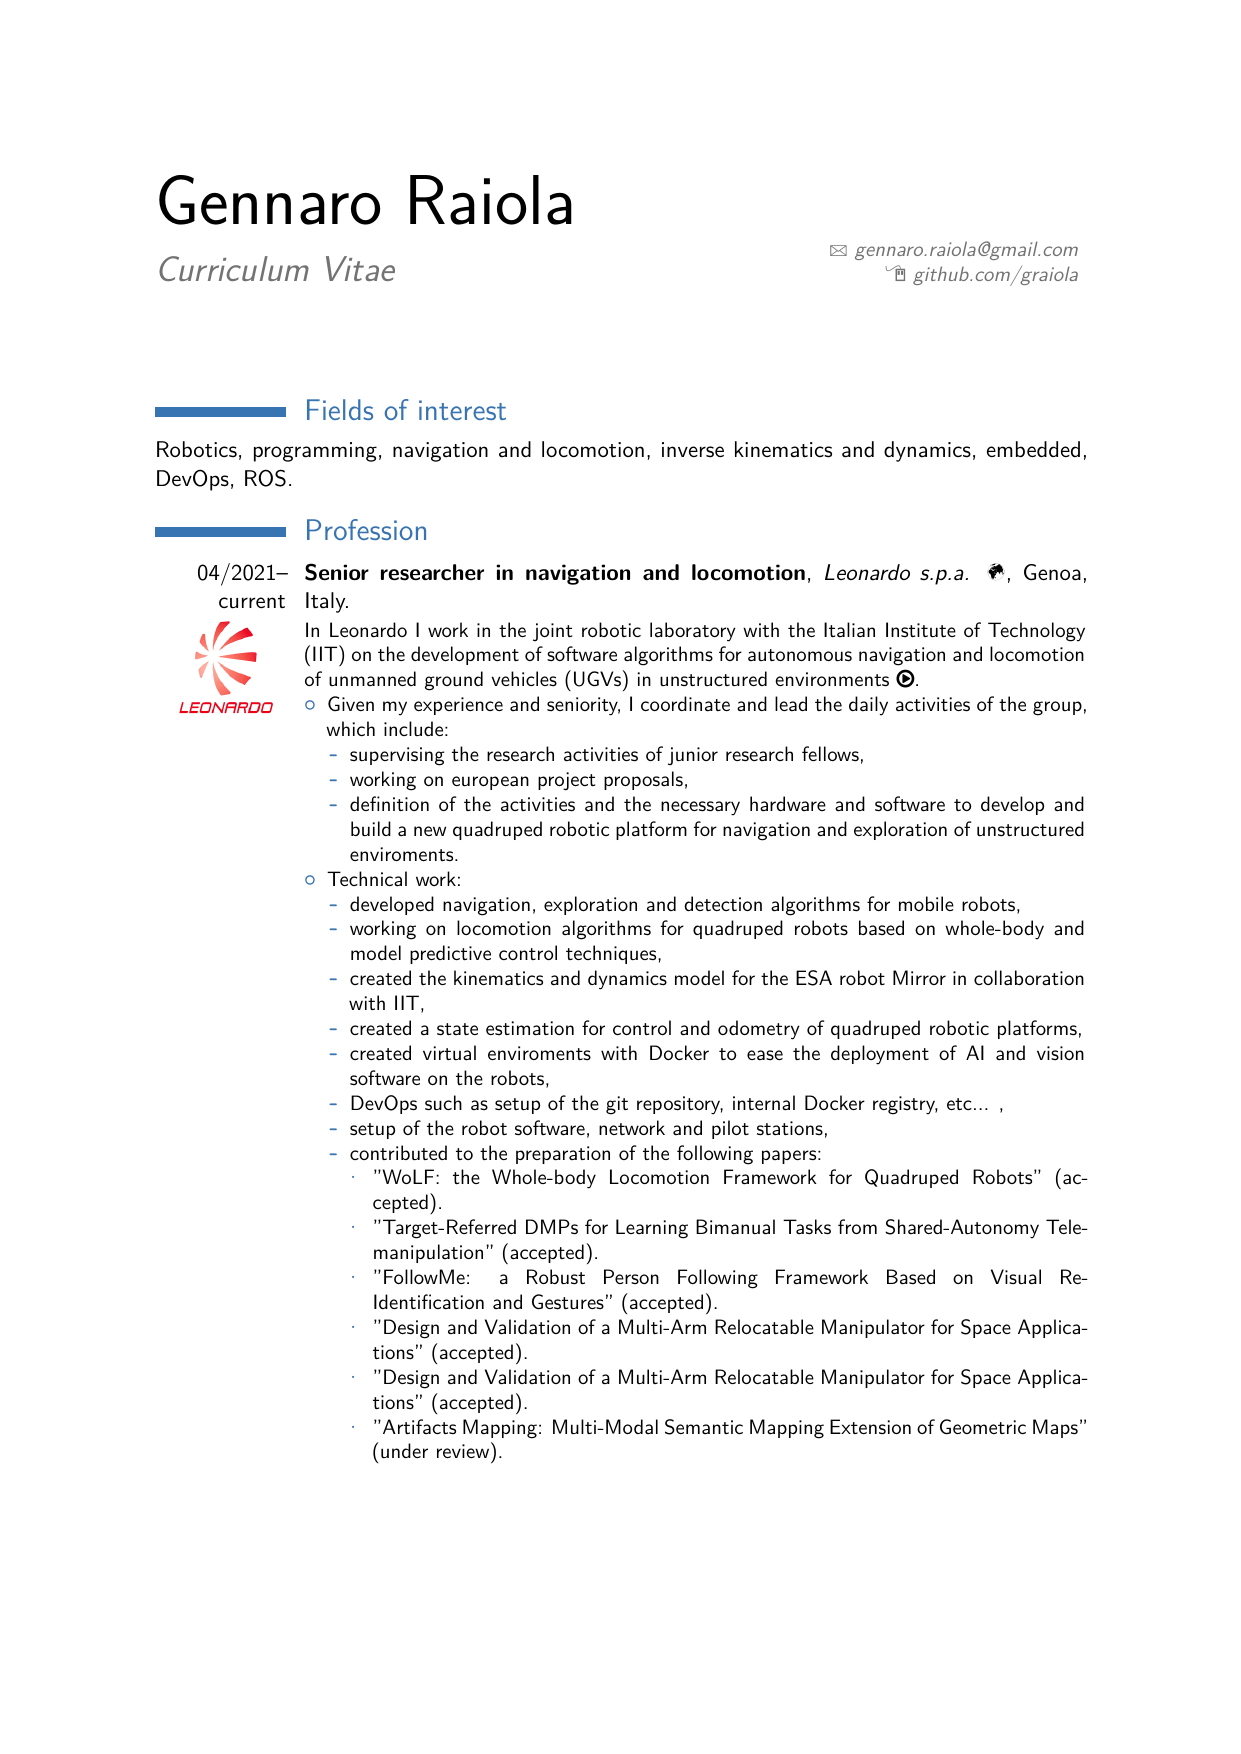
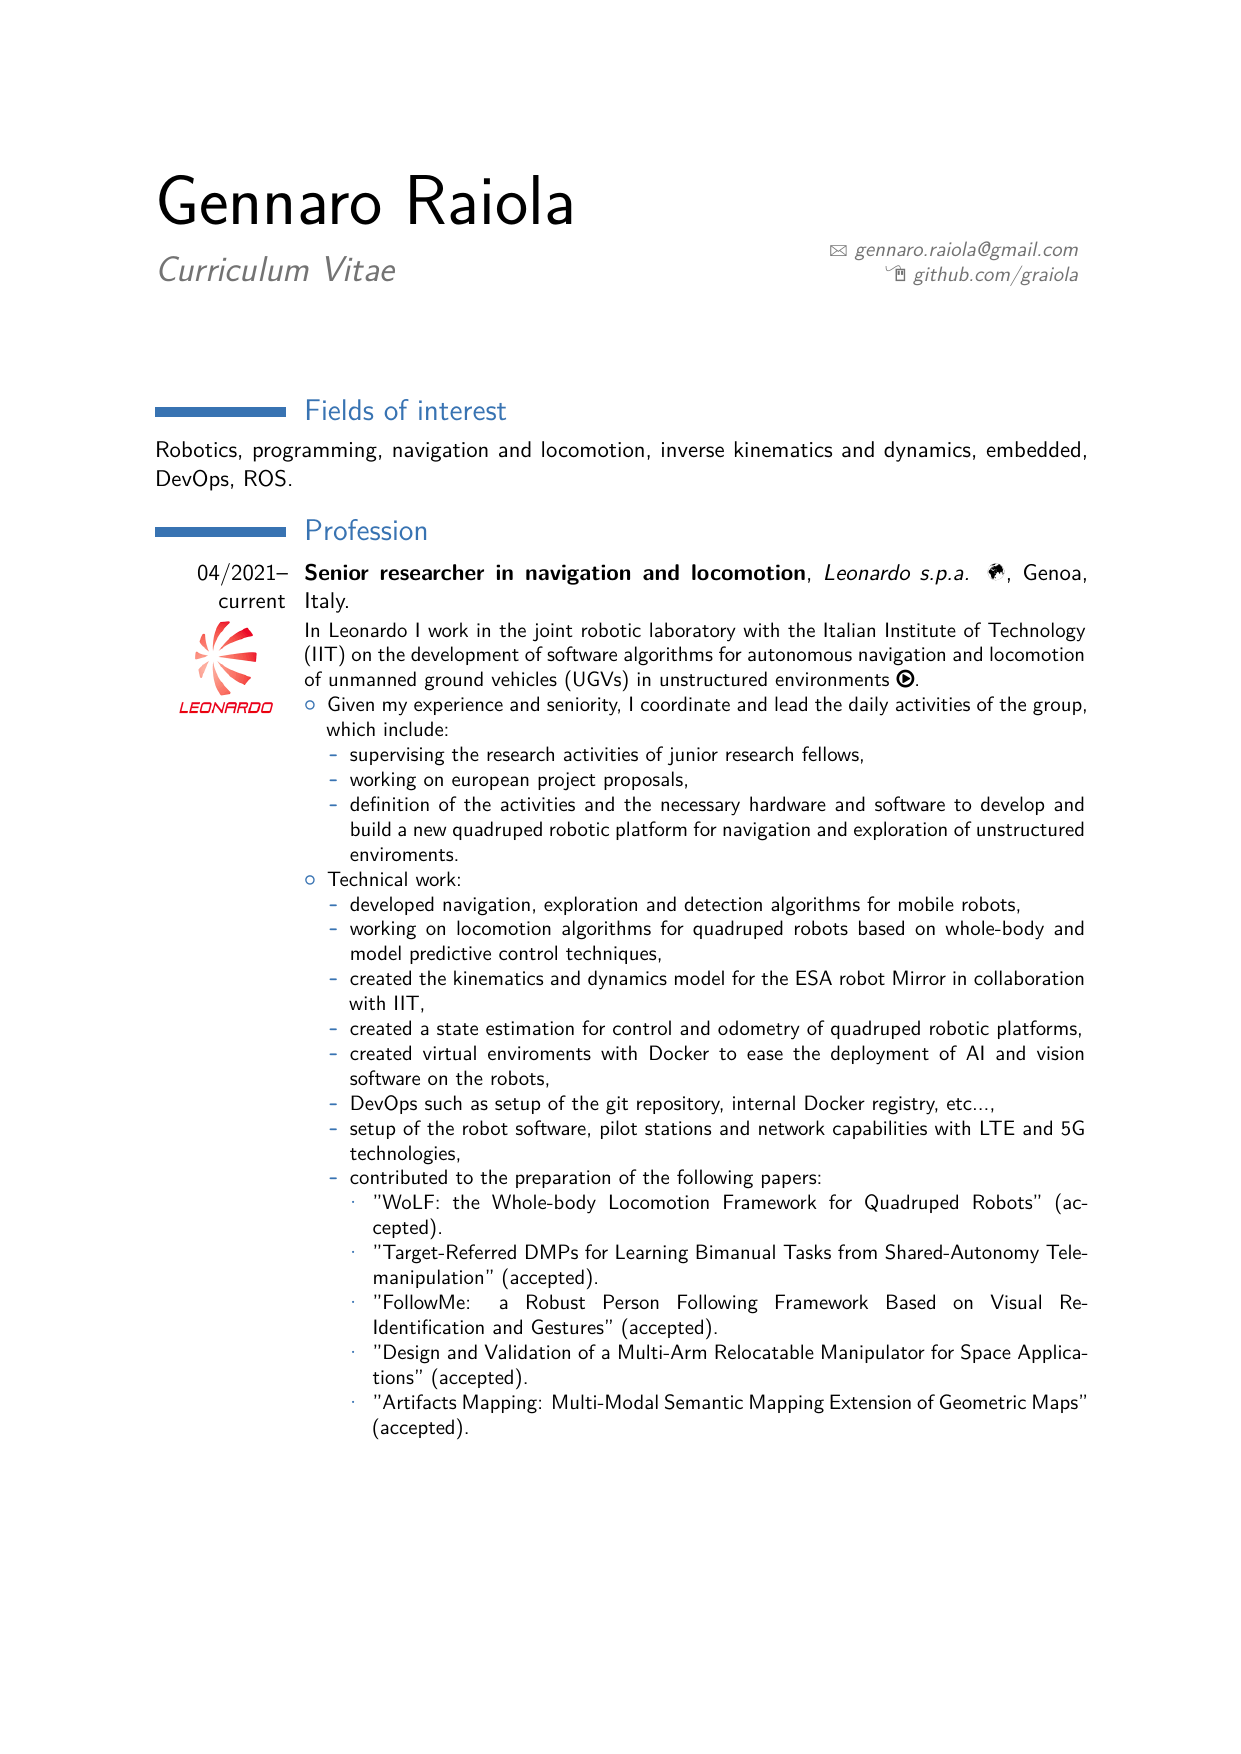
Generated files updated on sab 22 lug 2023, 19:30:51, CEST

Changed region(s): [[0.2756, 0.6157, 0.888, 0.8312]]

diff --git a/CV_Gennaro-Raiola.tex b/CV_Gennaro-Raiola.tex
@@ -97,16 +97,15 @@ In Leonardo I work in the joint robotic laboratory with the Italian Institute of
 \item created the kinematics and dynamics model for the ESA robot Mirror in collaboration with IIT,
 \item created a state estimation for control and odometry of quadruped robotic platforms,
 \item created virtual enviroments with Docker to ease the deployment of AI and vision software on the robots,
-\item DevOps such as setup of the git repository, internal Docker registry, etc... ,
-\item setup of the robot software, network and pilot stations,
+\item DevOps such as setup of the git repository, internal Docker registry, etc...,
+\item setup of the robot software, pilot stations and network capabilities with LTE and 5G technologies,
 \item contributed to the preparation of the following papers:
 \begin{itemize}
 \item "WoLF: the Whole-body Locomotion Framework for Quadruped Robots" (accepted).
 \item "Target-Referred DMPs for Learning Bimanual Tasks from Shared-Autonomy Telemanipulation" (accepted).
 \item "FollowMe: a Robust Person Following Framework Based on Visual Re-Identification and Gestures" (accepted).
 \item "Design and Validation of a Multi-Arm Relocatable Manipulator for Space Applications" (accepted).
-\item "Design and Validation of a Multi-Arm Relocatable Manipulator for Space Applications" (accepted).
-\item "Artifacts Mapping: Multi-Modal Semantic Mapping Extension of Geometric Maps" (under review).
+\item "Artifacts Mapping: Multi-Modal Semantic Mapping Extension of Geometric Maps" (accepted).
 \end{itemize}
 \end{itemize}
 \end{itemize}
